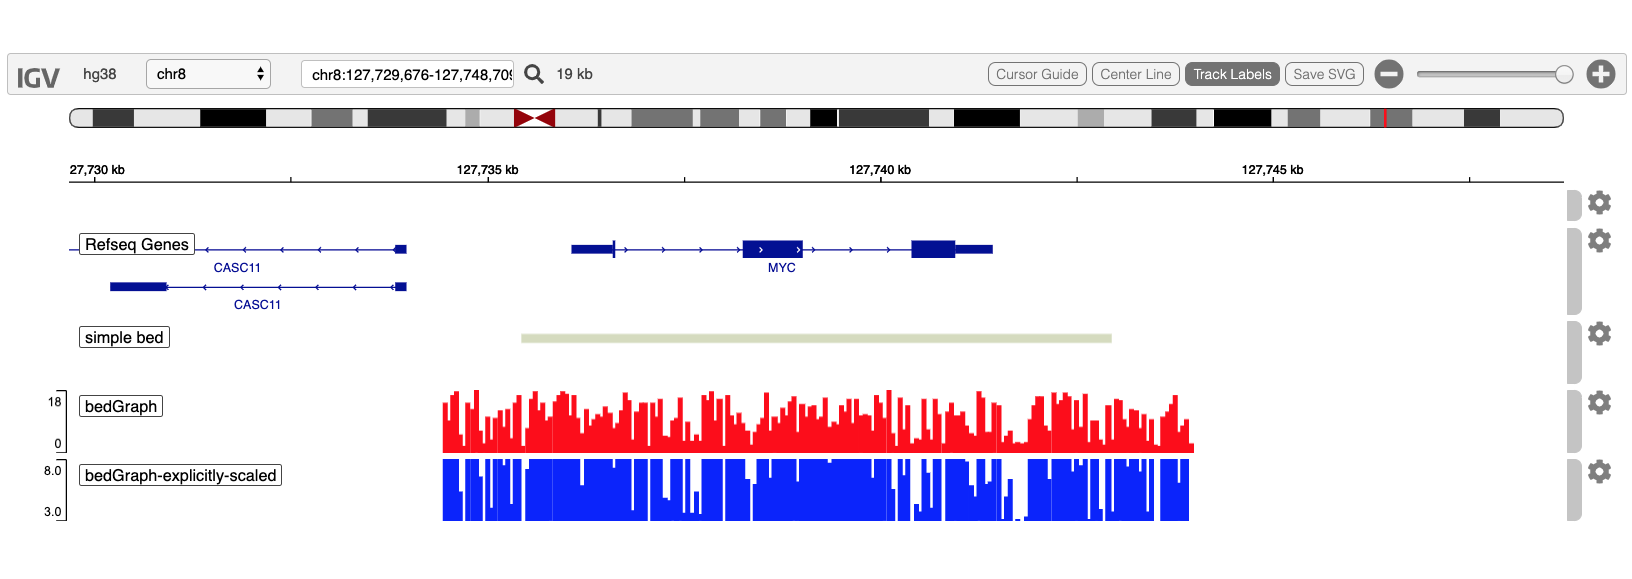
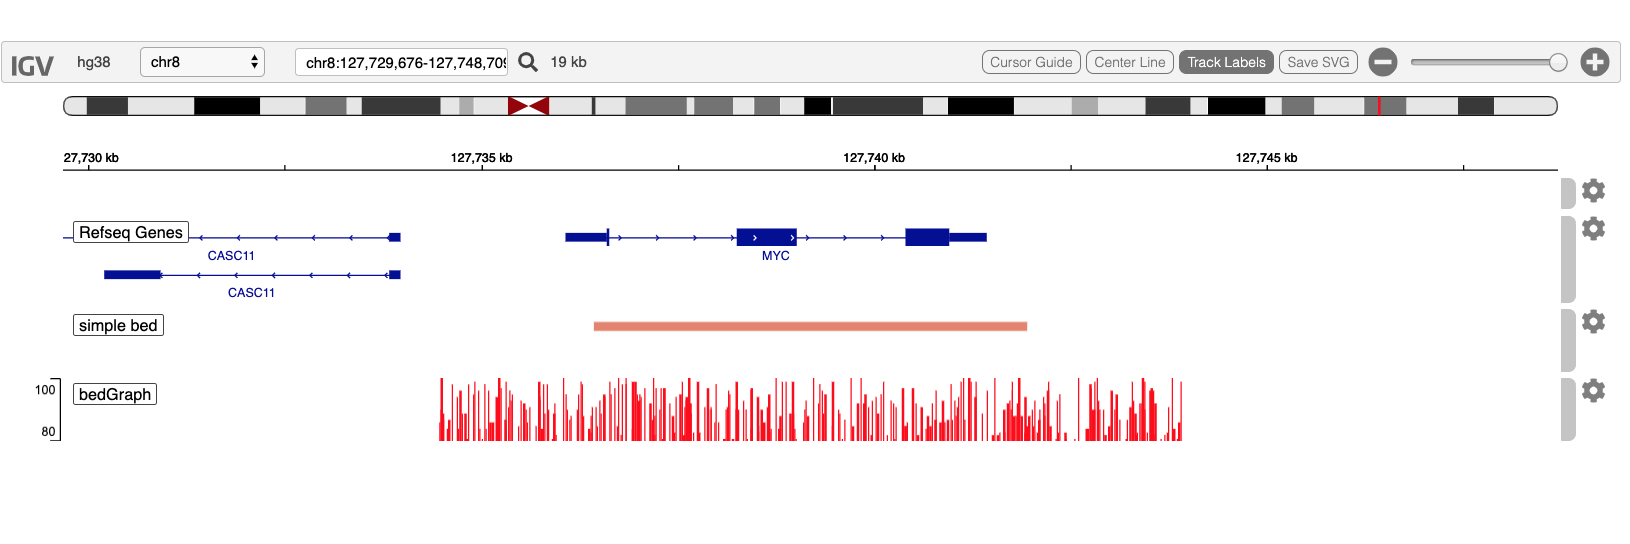
vignettes improved

diff --git a/docs/articles/alzheimersVariantsNearMEF2C.html b/docs/articles/alzheimersVariantsNearMEF2C.html
@@ -81,7 +81,7 @@
       <h1>Explore VCF variants, GWAS snps, promoters and histone marks around the MEF2C gene in Alzheimers Disease</h1>
                         <h4 class="author">Paul Shannon</h4>
             
-            <h4 class="date">2019-10-23</h4>
+            <h4 class="date">2019-10-24</h4>
       
       
       <div class="hidden name"><code>alzheimersVariantsNearMEF2C.Rmd</code></div>
@@ -112,7 +112,7 @@
 <li><p>for good measure we conclude by loading a very small slice of a different variant dataset, in VCF format, from another Alzheimer’s <a href="http://adni.loni.usc.edu/data-samples/genetic-data/wgs/">study</a> of 818 participants. VCF files typically contain fine-grained variant data, as is seen in the igv.js popup dialog.</p></li>
 </ul>
 <p>The result from running the code below:</p>
-<p><img src="igvR-mef2c-Alzheimers-demo.png" width="730"></p>
+<p><img src="igvR-mef2c-Alzheimers-demo-zoomedIn.png" width="819"></p>
 <div class="sourceCode"><pre class="sourceCode r"><code class="sourceCode r"><span class="kw"><a href="https://rdrr.io/r/base/library.html">library</a></span>(igvR)
 <span class="kw"><a href="https://rdrr.io/r/base/library.html">library</a></span>(MotifDb)
 <span class="kw"><a href="https://rdrr.io/r/base/library.html">library</a></span>(BSgenome.Hsapiens.UCSC.hg19)
@@ -125,17 +125,16 @@
 <p>Display MEF2C</p>
 <div class="sourceCode"><pre class="sourceCode r"><code class="sourceCode r"><span class="kw"><a href="../reference/showGenomicRegion.html">showGenomicRegion</a></span>(igv, <span class="st">"MEF2C"</span>)</code></pre></div>
 </div>
-<div id="create-a-granges-object-specifying-our-region-of-interest-285-kb-centered-on-the-mef2c-gene" class="section level1">
+<div id="expand-the-region-on-display-create-a-granges-object-for-subsequent-genomic-queries" class="section level1">
 <h1 class="hasAnchor">
-<a href="#create-a-granges-object-specifying-our-region-of-interest-285-kb-centered-on-the-mef2c-gene" class="anchor"></a>Create a GRanges object specifying our region of interest, 285 kb centered on the MEF2C gene</h1>
-<div class="sourceCode"><pre class="sourceCode r"><code class="sourceCode r">chrom &lt;-<span class="st"> "chr5"</span>
-shoulder &lt;-<span class="st"> </span><span class="dv">50000</span>
-start.loc &lt;-<span class="st"> </span><span class="dv">88013975</span> <span class="op">-</span><span class="st"> </span>shoulder
-end.loc   &lt;-<span class="st"> </span><span class="dv">88199922</span> <span class="op">+</span><span class="st"> </span>shoulder
-mef2c.region &lt;-<span class="st"> </span><span class="kw">GRanges</span>(<span class="dt">seqnames=</span>chrom, <span class="kw">IRanges</span>(<span class="dt">start=</span>start.loc, <span class="dt">end=</span>end.loc))
-<span class="kw"><a href="../reference/showGenomicRegion.html">showGenomicRegion</a></span>(igv, <span class="kw"><a href="https://rdrr.io/r/base/list.html">list</a></span>(<span class="dt">chrom=</span>chrom, <span class="dt">start=</span>start.loc, <span class="dt">end=</span>end.loc))</code></pre></div>
-<p>These next few steps expose the nuts and bolts of creating and displaying tracks from tabular data. None of the power and convenience of the Biocondcutor AnnotationHub, of rtracklayer and GenomicRanges is used here - that comes later.</p>
-<p>Add the IGAP GWAS track twice, first as an annotation track, so that names are avaialble by clicking, then again as a quantitative track, using a -log10(pValue) score, conveying strength of association of each SNP with the expression of the target gene, MEF2C.</p>
+<a href="#expand-the-region-on-display-create-a-granges-object-for-subsequent-genomic-queries" class="anchor"></a>Expand the region on display, create a GRanges object for subsequent genomic queries</h1>
+<div class="sourceCode"><pre class="sourceCode r"><code class="sourceCode r">loc &lt;-<span class="st"> </span><span class="kw"><a href="../reference/getGenomicRegion.html">getGenomicRegion</a></span>(igv)
+margin &lt;-<span class="st"> </span><span class="dv">25000</span>
+bigger.loc &lt;-<span class="st"> </span><span class="kw"><a href="https://rdrr.io/r/base/with.html">with</a></span>(loc, <span class="kw"><a href="https://rdrr.io/r/base/sprintf.html">sprintf</a></span>(<span class="st">"%s:%d-%d"</span>, chrom, start<span class="op">-</span>margin, end<span class="op">+</span>margin))
+mef2c.region &lt;-<span class="st"> </span><span class="kw"><a href="https://rdrr.io/r/base/with.html">with</a></span>(loc, <span class="kw">GRanges</span>(<span class="dt">seqnames=</span>chrom, <span class="kw">IRanges</span>(<span class="dt">start=</span>start<span class="op">+</span>margin, <span class="dt">end=</span>end<span class="op">+</span>margin)))
+<span class="kw"><a href="../reference/showGenomicRegion.html">showGenomicRegion</a></span>(igv, bigger.loc)</code></pre></div>
+<p>These next few steps expose the nuts and bolts of creating and displaying tracks from tabular data. None of the power and convenience of the Biocondcutor AnnotationHub, of rtracklayer and GenomicRanges is used here - that comes later in the vignette.</p>
+<p>Add the IGAP GWAS track twice, first as an annotation track, so that names are avaialble by clicking, then again as a quantitative track, using a -log10(pValue) score, conveying strength of association of each SNP with the expression of the target gene, MEF2C, by the height of each SNP’s track element.</p>
 <p><a href="http://consortiapedia.fastercures.org/consortia/igap/">IGAP</a>, the International Genomics of Alzheimer’s Project, provide these data. See <a href="https://www.ncbi.nlm.nih.gov/pmc/articles/PMC3896259/">Meta-analysis of 74,046 individuals identifies 11 new susceptibility loci for Alzheimer’s disease</a>, Nature Genetics, Dec 2013.</p>
 <div class="sourceCode"><pre class="sourceCode r"><code class="sourceCode r"><span class="kw"><a href="https://rdrr.io/r/base/load.html">load</a></span>(<span class="kw"><a href="https://rdrr.io/r/base/system.file.html">system.file</a></span>(<span class="dt">package=</span><span class="st">"igvR"</span>, <span class="st">"extdata"</span>, <span class="st">"tbl.mef2cGWAS.variants.RData"</span>))
 tbl.mef2cGWAS.variants.bed &lt;-<span class="st"> </span>tbl.mef2cGWAS.variants[, <span class="kw"><a href="https://rdrr.io/r/base/c.html">c</a></span>(<span class="st">"CHR"</span>, <span class="st">"oldPos"</span>, <span class="st">"oldPos"</span>, <span class="st">"SNP"</span>, <span class="st">"P"</span>)]
@@ -148,9 +147,9 @@ tbl.mef2cGWAS.variants.bedGraph &lt;-<span class="st">  </span>tbl.mef2cGWAS.var
 track.gwas.numeric &lt;-<span class="st"> </span><span class="kw"><a href="../reference/DataFrameQuantitativeTrack-class.html">DataFrameQuantitativeTrack</a></span>(<span class="st">"IGAP.gwas.scored"</span>, tbl.mef2cGWAS.variants.bedGraph, <span class="dt">autoscale=</span><span class="ot">TRUE</span>)
 <span class="kw"><a href="../reference/displayTrack.html">displayTrack</a></span>(igv, track.gwas.numeric)</code></pre></div>
 </div>
-<div id="use-the-annotationhub-to-create-a-promoter-track" class="section level1">
+<div id="use-the-bioc-annotationhub-to-create-a-promoter-track" class="section level1">
 <h1 class="hasAnchor">
-<a href="#use-the-annotationhub-to-create-a-promoter-track" class="anchor"></a>Use the AnnotationHub to create a promoter track</h1>
+<a href="#use-the-bioc-annotationhub-to-create-a-promoter-track" class="anchor"></a>Use the bioc AnnotationHub to create a promoter track</h1>
 <p>A location-only calculation is used to identify gene promoters, rather than more nuanced experimental data, of which we will seem more later in this vignette. We use default, conservative parameters (2kb upstream of TSS, 200bp downstream).</p>
 <div class="sourceCode"><pre class="sourceCode r"><code class="sourceCode r">ah &lt;-<span class="st"> </span><span class="kw"><a href="https://rdrr.io/pkg/AnnotationHub/man/AnnotationHub-class.html">AnnotationHub</a></span>()
 ah.human &lt;-<span class="st"> </span><span class="kw"><a href="https://rdrr.io/r/base/subset.html">subset</a></span>(ah, species <span class="op">==</span><span class="st"> "Homo sapiens"</span>)
@@ -204,7 +203,6 @@ color.index &lt;-<span class="st"> </span><span class="dv">0</span>
                                               <span class="dt">color=</span>colors[color.index], <span class="dt">trackHeight=</span><span class="dv">50</span>,
                                               <span class="dt">autoscale=</span><span class="ot">TRUE</span>)
    <span class="kw"><a href="../reference/displayTrack.html">displayTrack</a></span>(igv, track.histones)
-   <span class="kw"><a href="https://rdrr.io/r/base/Sys.sleep.html">Sys.sleep</a></span>(<span class="dv">5</span>)
    } <span class="co"># for track</span></code></pre></div>
 </div>
 <div id="vcf-from-adni-the-alzheimers-disease-neuroimaging-initiative" class="section level1">
@@ -215,9 +213,8 @@ color.index &lt;-<span class="st"> </span><span class="dv">0</span>
 <div class="sourceCode"><pre class="sourceCode r"><code class="sourceCode r">vcfFilename &lt;-<span class="st"> </span><span class="kw"><a href="https://rdrr.io/r/base/system.file.html">system.file</a></span>(<span class="dt">package=</span><span class="st">"igvR"</span>, <span class="st">"extdata"</span>, <span class="st">"mef2c-4kb.vcf"</span>)
 vcf &lt;-<span class="st"> </span><span class="kw"><a href="https://rdrr.io/pkg/VariantAnnotation/man/readVcf-methods.html">readVcf</a></span>(vcfFilename, <span class="st">"hg19"</span>)
 track.vcf &lt;-<span class="st"> </span><span class="kw"><a href="../reference/VariantTrack-class.html">VariantTrack</a></span>(<span class="st">"AMPAD VCF"</span>, vcf, <span class="dt">trackHeight=</span><span class="dv">1000</span>)
-<span class="kw"><a href="https://rdrr.io/r/base/Sys.sleep.html">Sys.sleep</a></span>(<span class="dv">5</span>)
 <span class="kw"><a href="../reference/displayTrack.html">displayTrack</a></span>(igv, track.vcf)
-<span class="kw"><a href="https://rdrr.io/r/base/Sys.sleep.html">Sys.sleep</a></span>(<span class="dv">10</span>)  <span class="co"># allow plenty of time for this to complete, and the track to appear, before ending this chunk</span></code></pre></div>
+<span class="kw"><a href="../reference/showGenomicRegion.html">showGenomicRegion</a></span>(igv, <span class="st">"chr5:88,175,901-88,181,613"</span>)</code></pre></div>
 </div>
 <div id="references" class="section level1">
 <h1 class="hasAnchor">
@@ -236,8 +233,8 @@ track.vcf &lt;-<span class="st"> </span><span class="kw"><a href="../reference/V
 <a href="#tocnav" class="anchor"></a>Contents</h2>
       <ul class="nav nav-pills nav-stacked">
 <li><a href="#overview">Overview</a></li>
-      <li><a href="#create-a-granges-object-specifying-our-region-of-interest-285-kb-centered-on-the-mef2c-gene">Create a GRanges object specifying our region of interest, 285 kb centered on the MEF2C gene</a></li>
-      <li><a href="#use-the-annotationhub-to-create-a-promoter-track">Use the AnnotationHub to create a promoter track</a></li>
+      <li><a href="#expand-the-region-on-display-create-a-granges-object-for-subsequent-genomic-queries">Expand the region on display, create a GRanges object for subsequent genomic queries</a></li>
+      <li><a href="#use-the-bioc-annotationhub-to-create-a-promoter-track">Use the bioc AnnotationHub to create a promoter track</a></li>
       <li><a href="#overlap-promoters-and-variants-create-new-track">Overlap promoters and variants, create new track</a></li>
       <li><a href="#add-methylation-tracks">Add Methylation Tracks</a></li>
       <li><a href="#vcf-from-adni-the-alzheimers-disease-neuroimaging-initiative">VCF from ADNI, the Alzheimer’s Disease Neuroimaging Initiative</a></li>

diff --git a/docs/articles/basicIntro.html b/docs/articles/basicIntro.html
@@ -81,7 +81,7 @@
       <h1>Introduction: a simple demo</h1>
                         <h4 class="author">Paul Shannon</h4>
             
-            <h4 class="date">2019-10-23</h4>
+            <h4 class="date">2019-10-24</h4>
       
       
       <div class="hidden name"><code>basicIntro.Rmd</code></div>
@@ -105,12 +105,11 @@
 <li>zoom to the MYC gene</li>
 <li>construct a simple data.frame specifying a bed-like track</li>
 <li>display that data.frame track in the browser using a random color</li>
-<li>create and display a “quantitative” data.frame, which is displayed (autoscaled) as a bedGraph track in the browser</li>
-<li>display that same data.frame with explicit scaling</li>
-<li>zoom out</li>
+<li>create and display a “quantitative” data.frame</li>
+<li>zoom out for a wider view</li>
 </ul>
 <p>Your display will look like this at the conclusion of this demo:</p>
-<p><img src="igvR-basicDemo.png" width="816"></p>
+<p><img src="igvR-basicDemo.png" width="815"></p>
 </div>
 <div id="load-the-libraries-we-need" class="section level1">
 <h1 class="hasAnchor">
@@ -119,9 +118,16 @@
 <p>Create the igvR instance, with all default parameters (portRange, quiet, title). Javascript and HTML is loaded into your browser, igv.js is initialized, a websocket connection between your R process and that web page is constructed, over which subsequent commands and data will travel.</p>
 <div class="sourceCode"><pre class="sourceCode r"><code class="sourceCode r">igv &lt;-<span class="st"> </span><span class="kw"><a href="../reference/igvR-class.html">igvR</a></span>()
 <span class="kw">setBrowserWindowTitle</span>(igv, <span class="st">"simple igvR demo"</span>)
-<span class="kw"><a href="../reference/getSupportedGenomes.html">getSupportedGenomes</a></span>(igv)
 <span class="kw"><a href="../reference/setGenome.html">setGenome</a></span>(igv, <span class="st">"hg38"</span>)</code></pre></div>
-<p>Display MYC</p>
+</div>
+<div id="display-a-list-of-the-currently-supported-genomes" class="section level1">
+<h1 class="hasAnchor">
+<a href="#display-a-list-of-the-currently-supported-genomes" class="anchor"></a>Display a list of the currently supported genomes</h1>
+<div class="sourceCode"><pre class="sourceCode r"><code class="sourceCode r"><span class="kw"><a href="https://rdrr.io/r/base/print.html">print</a></span>(<span class="kw"><a href="../reference/getSupportedGenomes.html">getSupportedGenomes</a></span>(igv))</code></pre></div>
+</div>
+<div id="display-myc" class="section level1">
+<h1 class="hasAnchor">
+<a href="#display-myc" class="anchor"></a>Display MYC</h1>
 <div class="sourceCode"><pre class="sourceCode r"><code class="sourceCode r"><span class="kw"><a href="../reference/showGenomicRegion.html">showGenomicRegion</a></span>(igv, <span class="st">"MYC"</span>)</code></pre></div>
 </div>
 <div id="create-and-display-minimal-1-row-data-frame-centered-below-myc-on-chr8" class="section level1">
@@ -129,7 +135,9 @@
 <a href="#create-and-display-minimal-1-row-data-frame-centered-below-myc-on-chr8" class="anchor"></a>Create and display minimal 1-row data.frame centered below MYC on chr8</h1>
 <div class="sourceCode"><pre class="sourceCode r"><code class="sourceCode r">loc &lt;-<span class="st"> </span><span class="kw"><a href="../reference/getGenomicRegion.html">getGenomicRegion</a></span>(igv)
 
-tbl.bed &lt;-<span class="st"> </span><span class="kw"><a href="https://rdrr.io/r/base/data.frame.html">data.frame</a></span>(<span class="dt">chrom=</span>loc<span class="op">$</span>chrom, <span class="dt">start=</span>loc<span class="op">$</span>start <span class="op">+</span><span class="st"> </span><span class="dv">2000</span>, <span class="dt">end=</span>loc<span class="op">$</span>end<span class="op">-</span><span class="dv">2000</span>, <span class="dt">stringsAsFactors=</span><span class="ot">FALSE</span>)
+tbl.bed &lt;-<span class="st"> </span><span class="kw"><a href="https://rdrr.io/r/base/data.frame.html">data.frame</a></span>(<span class="dt">chrom=</span>loc<span class="op">$</span>chrom, <span class="dt">start=</span>loc<span class="op">$</span>start <span class="op">+</span><span class="st"> </span><span class="dv">2000</span>, <span class="dt">end=</span>loc<span class="op">$</span>end<span class="op">-</span><span class="dv">2000</span>,
+                      <span class="dt">name=</span><span class="st">"simple.example"</span>, <span class="dt">stringsAsFactors=</span><span class="ot">FALSE</span>)
+
 track &lt;-<span class="st"> </span><span class="kw"><a href="../reference/DataFrameAnnotationTrack-class.html">DataFrameAnnotationTrack</a></span>(<span class="st">"simple bed"</span>, tbl.bed, <span class="dt">color=</span><span class="st">"random"</span>)
 <span class="kw"><a href="../reference/displayTrack.html">displayTrack</a></span>(igv, track)</code></pre></div>
 </div>
@@ -137,17 +145,16 @@ track &lt;-<span class="st"> </span><span class="kw"><a href="../reference/DataF
 <h1 class="hasAnchor">
 <a href="#create-and-display-a-simulated-quantitative-bedgraph-track" class="anchor"></a>Create and display a simulated quantitative (bedGraph) track</h1>
 <div class="sourceCode"><pre class="sourceCode r"><code class="sourceCode r">loc &lt;-<span class="st"> </span><span class="kw"><a href="../reference/getGenomicRegion.html">getGenomicRegion</a></span>(igv)
-starts &lt;-<span class="st"> </span><span class="kw"><a href="https://rdrr.io/r/base/seq.html">seq</a></span>(loc<span class="op">$</span>start, loc<span class="op">$</span>end, <span class="dt">by=</span><span class="dv">50</span>)
-ends   &lt;-<span class="st"> </span>starts <span class="op">+</span><span class="st"> </span><span class="dv">49</span>
-values &lt;-<span class="st"> </span><span class="kw"><a href="https://rdrr.io/r/base/jitter.html">jitter</a></span>(<span class="kw"><a href="https://rdrr.io/r/base/rep.html">rep</a></span>(<span class="dv">10</span>, <span class="kw"><a href="https://rdrr.io/r/base/length.html">length</a></span>(starts)), <span class="dt">amount=</span><span class="dv">8</span>)
+size &lt;-<span class="st"> </span><span class="kw"><a href="https://rdrr.io/r/base/with.html">with</a></span>(loc, <span class="dv">1</span> <span class="op">+</span><span class="st"> </span>end <span class="op">-</span><span class="st"> </span>start)
+starts &lt;-<span class="st"> </span><span class="kw"><a href="https://rdrr.io/r/base/seq.html">seq</a></span>(loc<span class="op">$</span>start, loc<span class="op">$</span>end, <span class="dt">by=</span><span class="dv">5</span>)
+ends   &lt;-<span class="st"> </span>starts <span class="op">+</span><span class="st"> </span><span class="dv">5</span>
+values &lt;-<span class="st"> </span><span class="kw"><a href="https://rdrr.io/r/base/sample.html">sample</a></span>(<span class="dv">1</span><span class="op">:</span><span class="dv">100</span>, <span class="dt">size=</span><span class="kw"><a href="https://rdrr.io/r/base/length.html">length</a></span>(starts), <span class="dt">replace=</span><span class="ot">TRUE</span>)
+
 tbl.bedGraph &lt;-<span class="st"> </span><span class="kw"><a href="https://rdrr.io/r/base/data.frame.html">data.frame</a></span>(<span class="dt">chrom=</span><span class="kw"><a href="https://rdrr.io/r/base/rep.html">rep</a></span>(<span class="st">"chr8"</span>, <span class="kw"><a href="https://rdrr.io/r/base/length.html">length</a></span>(starts)), <span class="dt">start=</span>starts, <span class="dt">end=</span>ends,
                            <span class="dt">value=</span>values, <span class="dt">stringsAsFactors=</span><span class="ot">FALSE</span>)
 
-track &lt;-<span class="st"> </span><span class="kw"><a href="../reference/DataFrameQuantitativeTrack-class.html">DataFrameQuantitativeTrack</a></span>(<span class="st">"bedGraph"</span>, tbl.bedGraph, <span class="dt">color=</span><span class="st">"red"</span>, <span class="dt">autoscale=</span><span class="ot">TRUE</span>)
-<span class="kw"><a href="../reference/displayTrack.html">displayTrack</a></span>(igv, track)
-
-track &lt;-<span class="st"> </span><span class="kw"><a href="../reference/DataFrameQuantitativeTrack-class.html">DataFrameQuantitativeTrack</a></span>(<span class="st">"bedGraph-explicitly-scaled"</span>, tbl.bedGraph, <span class="dt">color=</span><span class="st">"blue"</span>,
-                                    <span class="dt">autoscale=</span><span class="ot">FALSE</span>, <span class="dt">min=</span><span class="dv">3</span>, <span class="dt">max=</span><span class="dv">8</span>)
+track &lt;-<span class="st"> </span><span class="kw"><a href="../reference/DataFrameQuantitativeTrack-class.html">DataFrameQuantitativeTrack</a></span>(<span class="st">"bedGraph"</span>, tbl.bedGraph, <span class="dt">color=</span><span class="st">"red"</span>, <span class="dt">autoscale=</span><span class="ot">FALSE</span>,
+                                    <span class="dt">min=</span><span class="dv">80</span>, <span class="dt">max=</span><span class="dv">100</span>)
 <span class="kw"><a href="../reference/displayTrack.html">displayTrack</a></span>(igv, track)</code></pre></div>
 </div>
 <div id="zoom-out" class="section level1">
@@ -174,6 +181,8 @@ new.region &lt;-<span class="st"> </span><span class="kw"><a href="https://rdrr.
       <ul class="nav nav-pills nav-stacked">
 <li><a href="#overview">Overview</a></li>
       <li><a href="#load-the-libraries-we-need">Load the libraries we need</a></li>
+      <li><a href="#display-a-list-of-the-currently-supported-genomes">Display a list of the currently supported genomes</a></li>
+      <li><a href="#display-myc">Display MYC</a></li>
       <li><a href="#create-and-display-minimal-1-row-data-frame-centered-below-myc-on-chr8">Create and display minimal 1-row data.frame centered below MYC on chr8</a></li>
       <li><a href="#create-and-display-a-simulated-quantitative-bedgraph-track">Create and display a simulated quantitative (bedGraph) track</a></li>
       <li><a href="#zoom-out">Zoom out</a></li>

diff --git a/docs/articles/ctcfChipSeq.html b/docs/articles/ctcfChipSeq.html
@@ -81,7 +81,7 @@
       <h1>Explore ChIP-seq alignments from a bam file, MACS2 narrowPeaks, conservation, H3K4me3 methylation and motif matching</h1>
                         <h4 class="author">Paul Shannon</h4>
             
-            <h4 class="date">2019-10-23</h4>
+            <h4 class="date">2019-10-24</h4>
       
       
       <div class="hidden name"><code>ctcfChipSeq.Rmd</code></div>
